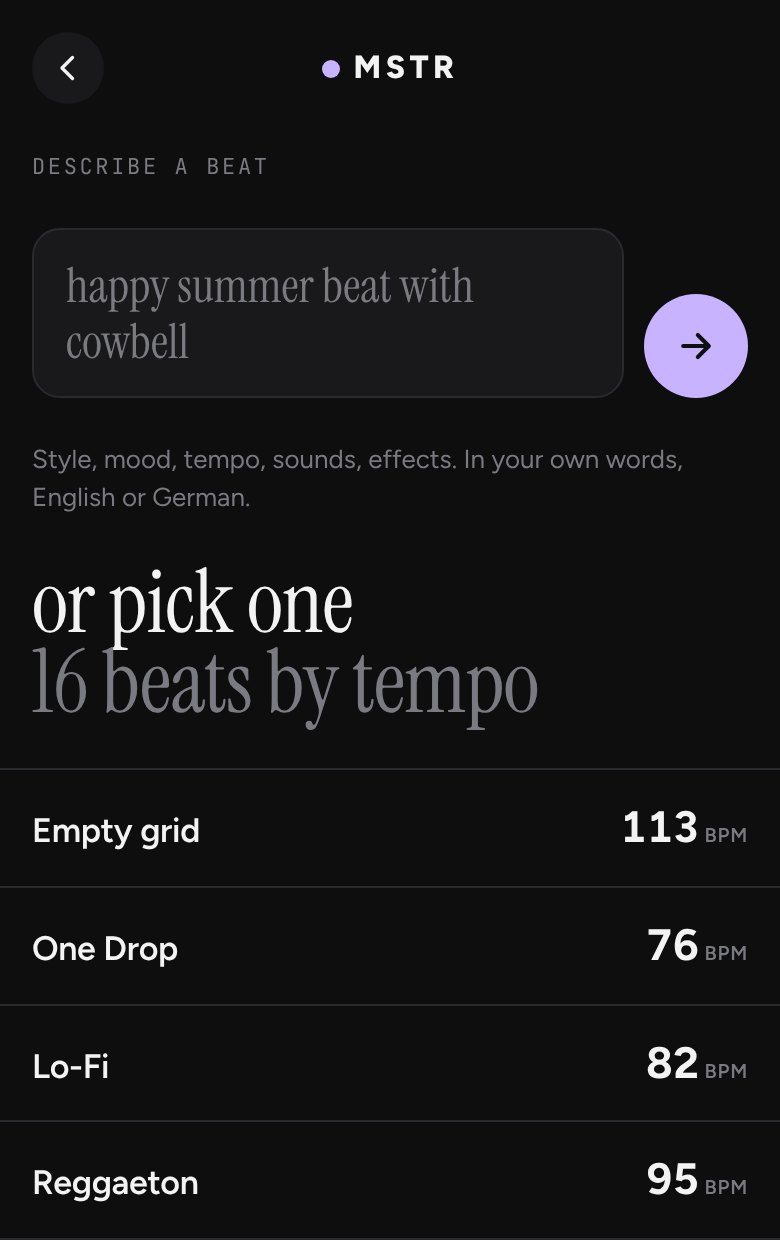
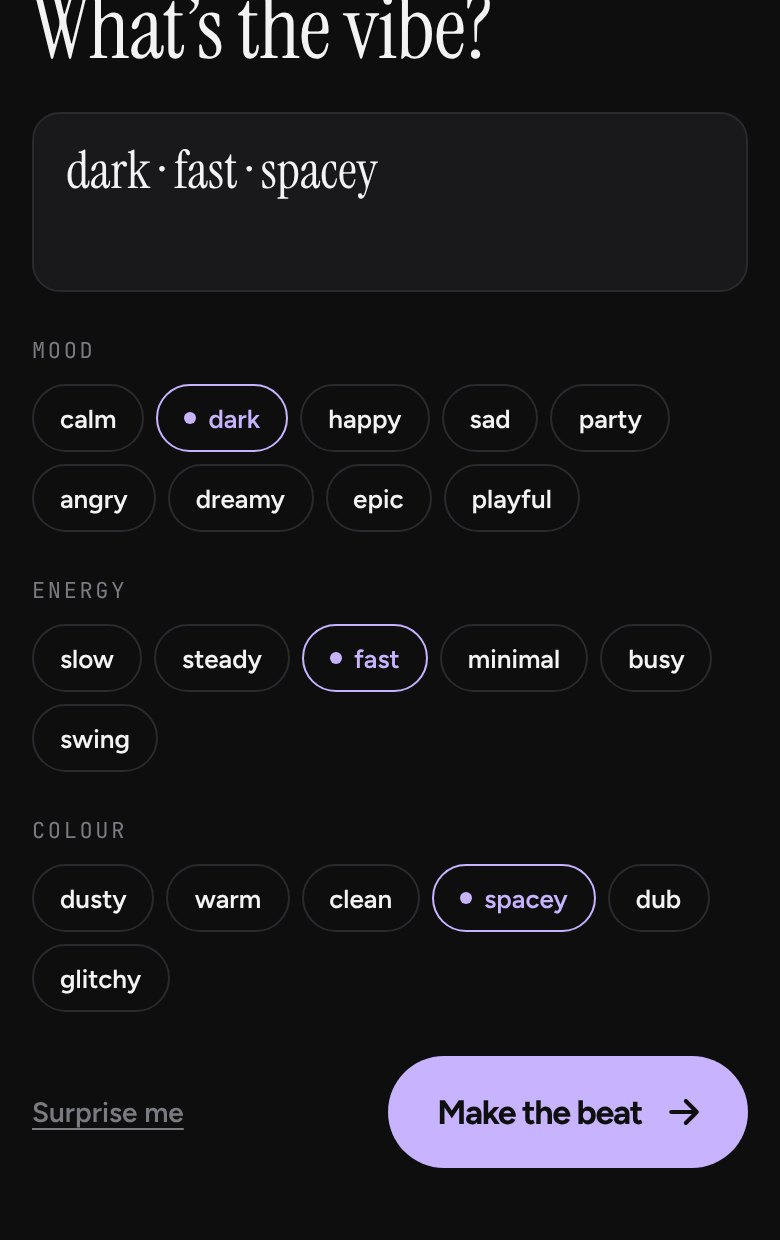
MSTR app: vibe first, Orbit home, no WAV
Sync the app copy with mstr #33: the app opens with the question
"What's the vibe?", the Orbit is the home screen, the machine sits
behind "Open the machine", beat names are generated only, and the WAV
download is gone.

Landing page: new hero text, tour steps reordered to Vibe, Orbit,
Machine, Effects, Mic, and fresh preview images for the vibe page,
the Orbit home and the machine.

Claude-Session: https://claude.ai/code/session_01WCtGHXdqNMZgkMLakytpzG

diff --git a/mstr/app/index.html b/mstr/app/index.html
@@ -39,7 +39,12 @@ button:focus-visible,input:focus-visible{outline:2px solid var(--accent);outline
 .mark i{width:9px;height:9px;border-radius:50%;background:var(--accent)}
 .app.live .mark i{animation:pulse calc(60s / 120) ease-in-out infinite alternate}
 @keyframes pulse{to{transform:scale(1.35)}}
-.topr{display:flex;gap:8px;align-items:center}
+.back{border:0;background:none;padding:0 8px 0 0;display:inline-flex;align-items:center;gap:8px;font:600 14px var(--f-ui);color:var(--ink);cursor:pointer}
+.back i{width:36px;height:36px;border-radius:50%;background:var(--soft);display:grid;place-items:center}
+.back svg{width:18px;height:18px}
+.vibetxt{max-width:50%;overflow:hidden;text-overflow:ellipsis;white-space:nowrap}
+.top .mark{margin-right:auto}.app.molecule .top .mark{margin-right:0}
+.vibetxt[hidden]{display:none}
 .ib{width:36px;height:36px;border-radius:50%;border:0;background:var(--soft);display:grid;place-items:center;cursor:pointer;flex:none;color:var(--ink);padding:0}
 .ib svg{width:18px;height:18px}
 .ib.lg{width:48px;height:48px;font-size:24px;font-weight:500}
@@ -51,17 +56,12 @@ button:focus-visible,input:focus-visible{outline:2px solid var(--accent);outline
 .head{display:flex;flex-direction:column;gap:4px}
 .preset{margin:0;cursor:pointer;display:flex;align-items:center;gap:10px;min-width:0;font-family:var(--f-ed);font-size:clamp(42px,11vw,60px);font-weight:400;letter-spacing:-.01em;line-height:1}
 /* Share: der einzige farbige Knopf im Kopf, beim Spielen läuft darin ein winziger Orbit mit */
-.pill.share{background:var(--accent);color:var(--on-accent);border-color:var(--accent);height:40px;padding:0 16px 0 13px;font-size:14px;gap:7px}
-.pill.share svg{width:18px;height:18px}
-#miniOrb{width:22px;height:22px;display:none}
-.app.live #miniOrb{display:block}
-.app.live .pill.share .shi{display:none}
 .prow{display:flex;align-items:center;gap:14px}
 /* Stift: zeigt, dass der Titel antippbar ist */
 .preset .pen{width:18px;height:18px;flex:none;color:var(--mute)}
 .preset.fixed{cursor:default}.preset.fixed .pen{display:none}
 .preset #preTxt{min-width:0;overflow:hidden;text-overflow:ellipsis;white-space:nowrap}
-/* Textknöpfe: „Change beat“ unter dem Titel, Link und WAV im Orbit */
+/* Textknöpfe: „Change beat“ unter dem Titel, der Link im Orbit */
 .lnk{border:0;background:none;padding:4px 0;font:600 13px var(--f-ui);color:var(--ink);display:inline-flex;align-items:center;gap:5px;cursor:pointer}
 .lnk svg{width:13px;height:13px;flex:none;color:var(--mute)}
 /* Beat beschreiben: das Feld steht oben in der Beat-Liste */
@@ -191,23 +191,18 @@ input[type=range]::-moz-range-thumb{width:20px;height:20px;border-radius:50%;bac
 .opt{height:34px;border-radius:999px;border:1px solid var(--line);background:transparent;padding:0 14px;font-size:13px;font-weight:600;cursor:pointer}
 .opt[aria-pressed="true"]{background:var(--accent);color:var(--on-accent);border-color:var(--accent)}
 /* Willkommen: drei Karten, das Beschreiben-Feld steckt in der dritten */
-.wcards{display:flex;flex-direction:column;gap:12px}
-.wcard{border:1px solid var(--line);border-radius:22px;padding:18px 18px 18px 16px;display:flex;gap:14px;align-items:center;background:transparent;cursor:pointer;text-align:left;width:100%}
-.wcard:active{background:var(--soft)}
-.wic{width:40px;height:40px;border-radius:50%;background:var(--soft);display:grid;place-items:center;flex:none}
-.wic svg{width:20px;height:20px;fill:none;stroke:var(--ink);stroke-width:1.6;stroke-linecap:round;stroke-linejoin:round}
-.wtx{flex:1;display:flex;flex-direction:column;gap:3px;min-width:0}
-.wtx b{font-size:17px;font-weight:600;letter-spacing:-.01em}
-.wtx small{font-size:13px;color:var(--mute);line-height:1.35}
-.wcard .go{width:14px;height:14px;color:var(--mute);flex:none}
-.wcard.say{flex-direction:column;align-items:stretch;gap:12px;padding:18px 16px 16px;cursor:default}
-.wcard.say:active{background:transparent}
-.wh{display:flex;gap:14px;align-items:center}
 .chips{display:flex;gap:6px;flex-wrap:wrap}
-.chip{height:30px;padding:0 12px;border-radius:999px;border:1px solid var(--line);background:transparent;font:600 12px var(--f-ui);color:var(--mute);cursor:pointer}
-.chip:active{color:var(--ink)}
-.wnote{margin-top:auto}
-.wnote b{color:var(--ink);font-weight:600}
+.chip{height:34px;padding:0 13px;border-radius:999px;border:1px solid var(--line);background:transparent;font:600 13px var(--f-ui);color:var(--ink);cursor:pointer;display:inline-flex;align-items:center;gap:6px}
+.chip:active{background:var(--soft)}
+.chip.on{border-color:var(--accent);color:var(--accent)}
+.chip.on::before{content:"";width:6px;height:6px;border-radius:50%;background:var(--accent)}
+.vibef textarea{font-size:26px;caret-color:var(--accent)}
+.vgrp{display:flex;flex-direction:column;gap:8px}
+.vgrp .lbl{font-family:var(--f-mono);font-size:11px;letter-spacing:.12em;text-transform:uppercase;color:var(--mute)}
+.vgo{margin-top:auto;display:flex;align-items:center;justify-content:space-between;gap:12px;padding-bottom:8px}
+.vgo .lnk{color:var(--mute);text-decoration:underline;text-underline-offset:3px;font-size:14px}
+.pill.go.big{height:56px;padding:0 20px 0 24px;background:var(--accent);color:var(--on-accent);border-color:transparent;font-size:17px;font-weight:700;gap:10px}
+.pill.go.big svg{width:22px;height:22px}
 /* Effekte: eine Zeile je Effekt, rechts ein Punkt wie im Raster (grau aus, Flieder an) */
 .fxlist{display:flex;flex-direction:column}
 .fxrow{border-top:1px solid var(--line)}
@@ -293,15 +288,21 @@ input[type=range]::-moz-range-thumb{width:20px;height:20px;border-radius:50%;bac
 .mol:focus-visible{outline:2px solid var(--accent);outline-offset:4px}
 .app.molecule .tracks,.app.molecule .beatrow{display:none}
 /* Im Orbit: Pfeil zurück links, die Marke bleibt in der Mitte (rechts ein gleich breiter Platzhalter) */
-.app.molecule .topr{width:36px}
 .cardfoot{display:flex;gap:8px;align-items:center}
+.takes{display:flex;gap:8px;align-items:center;margin-top:6px}
+.takes .play{width:56px;height:56px;flex:none}
+.takes .pill{flex:1;height:44px;padding:0 10px;font-size:13px}
+.takes .pill svg{width:15px;height:15px;flex:none}
+.machine{margin:0;padding:6px 0 2px;text-align:center;font-size:13px;color:var(--mute);display:flex;justify-content:center;gap:6px;align-items:center;flex-wrap:wrap}
+.machine .lnk{font-size:13px}
+.machine[hidden]{display:none}
 .cardlinks{display:flex;justify-content:center;gap:26px;margin-top:-6px}
 .cardlinks .lnk{font-size:14px}
 .cardlinks .lnk svg{width:15px;height:15px}
 /* Farbwahl im Orbit: fünf Punkte, der gewählte trägt einen Ring; die Orbit-Farbe färbt dort auch den Video-Knopf */
 /* Zurückhaltend wie die App: kleine graue Punkte, nur der gewählte trägt seine Farbe; die Tipp-Fläche bleibt groß */
 .hue{display:flex;justify-content:flex-start;gap:2px;height:0;position:relative;z-index:1}
-.app.molecule .cardfoot{margin-top:6px}
+.app.molecule .cardfoot{margin-top:0}
 .hue button{width:28px;height:24px;border:0;padding:0;background:none;cursor:pointer;display:grid;place-items:center}
 .hue button::after{content:"";width:6px;height:6px;border-radius:50%;background:var(--off);transition:transform .15s,background .15s}
 .hue button[aria-checked="true"]::after{background:var(--c);transform:scale(1.5)}
@@ -315,10 +316,6 @@ input[type=range]::-moz-range-thumb{width:20px;height:20px;border-radius:50%;bac
 /* Orbit füllt genau den sichtbaren Bereich, nichts rutscht unter die Safari-Leiste; Play und Effekte stehen in der Reihe beim Knopf */
 .app.molecule{height:100%;height:100dvh;min-height:0;overflow:hidden;box-sizing:border-box}
 .app.molecule .cardfoot{padding-bottom:0}
-.cardfoot .play{width:48px;height:48px}
-.cardfoot #fxBtn{flex:none;height:48px;min-width:48px;width:48px;padding:0;border-radius:50%;justify-content:center;gap:4px}
-.cardfoot #fxBtn .fxl{display:none}
-.cardfoot #fxBtn.on{width:auto;padding:0 14px 0 12px;border-radius:999px}
 #shCardT{min-height:2.7em;padding-bottom:max(10px,env(safe-area-inset-bottom,0px));margin-top:-10px;line-height:1.35}
 /* Video entsteht: der Knopf füllt sich von links mit dem Fortschritt (--p 0..1) */
 .pill.go.gen,.pill.go.gen:disabled{opacity:1;color:var(--ink);border-color:transparent;background:linear-gradient(90deg,color-mix(in srgb,var(--accent) 60%,var(--bg)) calc(var(--p,0) * 100%),color-mix(in srgb,var(--accent) 18%,var(--bg)) calc(var(--p,0) * 100%));transition:background .2s linear}
@@ -327,9 +324,9 @@ input[type=range]::-moz-range-thumb{width:20px;height:20px;border-radius:50%;bac
 <body>
 <div class="app" id="app">
   <header class="top">
-    <button type="button" class="ib" id="vGrid" hidden aria-label="Back to the grid"><svg viewBox="0 0 24 24" aria-hidden="true"><path d="M15 5l-7 7 7 7" fill="none" stroke="currentColor" stroke-width="2.2" stroke-linecap="round" stroke-linejoin="round"/></svg></button>
+    <button type="button" class="back" id="vOrbit" hidden aria-label="Back to the orbit"><i><svg viewBox="0 0 24 24" aria-hidden="true"><path d="M15 5l-7 7 7 7" fill="none" stroke="currentColor" stroke-width="2.4" stroke-linecap="round" stroke-linejoin="round"/></svg></i><span>Orbit</span></button>
     <span class="mark"><i aria-hidden="true"></i>MSTR</span>
-    <div class="topr"><button type="button" class="pill share" id="vCard" aria-label="Share: your beat as an orbit, video and link"><canvas id="miniOrb" width="44" height="44" aria-hidden="true"></canvas><svg class="shi" viewBox="0 0 24 24" aria-hidden="true"><path d="M12 15V4M8 8l4-4 4 4M5 13v6h14v-6" fill="none" stroke="currentColor" stroke-width="2.2" stroke-linecap="round" stroke-linejoin="round"/></svg><span>Share</span></button></div>
+    <span class="eyebrow vibetxt" id="vibeTxt"></span>
   </header>
   <div class="head">
     <div class="prow"><h1 class="preset" id="preName" title="Name your beat"><span id="preTxt">Amapiano</span><svg class="pen" viewBox="0 0 24 24" aria-hidden="true"><path d="M12 20h9M16.5 3.5a2.1 2.1 0 0 1 3 3L7 19l-4 1 1-4Z" fill="none" stroke="currentColor" stroke-width="2" stroke-linecap="round" stroke-linejoin="round"/></svg></h1></div>
@@ -338,9 +335,11 @@ input[type=range]::-moz-range-thumb{width:20px;height:20px;border-radius:50%;bac
   <main class="tracks" id="tracks" aria-label="Tracks"></main>
   <canvas class="mol" id="mol" hidden aria-label="Your beat as an orbit. Tap the ring to play or stop, tap the title to name it, swipe sideways to change the colour" role="button" tabindex="0"></canvas>
   <div class="hue" id="hue" hidden role="radiogroup" aria-label="Orbit colour"></div>
+  <div class="takes" id="takes" hidden><button type="button" class="pill" id="takeBtn"><svg viewBox="0 0 24 24" aria-hidden="true"><path d="M4 12a8 8 0 0 1 14-5.3M20 12a8 8 0 0 1-14 5.3M18 3v4h-4M6 21v-4h4" fill="none" stroke="currentColor" stroke-width="2" stroke-linecap="round" stroke-linejoin="round"/></svg>Another take</button><button type="button" class="pill" id="vibeBtn"><svg viewBox="0 0 24 24" aria-hidden="true"><path d="M4 7h16M4 12h10M4 17h6" fill="none" stroke="currentColor" stroke-width="2" stroke-linecap="round"/></svg>Change vibe</button></div>
   <div class="cardfoot" id="cardfoot" hidden><button type="button" class="pill wide go" id="shCardBtn">Share video</button></div>
-  <div class="cardlinks" id="cardlinks" hidden><button type="button" class="lnk" id="shSend"><svg viewBox="0 0 24 24" aria-hidden="true"><path d="M10 14a4 4 0 0 0 5.7 0l3-3a4 4 0 0 0-5.7-5.7l-1 1M14 10a4 4 0 0 0-5.7 0l-3 3a4 4 0 0 0 5.7 5.7l1-1" fill="none" stroke="currentColor" stroke-width="2" stroke-linecap="round"/></svg><span>Copy link</span></button><button type="button" class="lnk" id="shWav"><svg viewBox="0 0 24 24" aria-hidden="true"><path d="M12 4v11M8 11l4 4 4-4M5 19h14" fill="none" stroke="currentColor" stroke-width="2" stroke-linecap="round" stroke-linejoin="round"/></svg><span>Download WAV</span></button></div>
+  <div class="cardlinks" id="cardlinks" hidden><button type="button" class="lnk" id="shSend"><svg viewBox="0 0 24 24" aria-hidden="true"><path d="M10 14a4 4 0 0 0 5.7 0l3-3a4 4 0 0 0-5.7-5.7l-1 1M14 10a4 4 0 0 0-5.7 0l-3 3a4 4 0 0 0 5.7 5.7l1-1" fill="none" stroke="currentColor" stroke-width="2" stroke-linecap="round"/></svg><span>Copy link</span></button></div>
   <p class="shnote" id="shCardT" hidden></p>
+  <p class="machine" id="machineRow" hidden>Want to tweak every hit? <button type="button" class="lnk" id="vMachine">Open the machine<svg viewBox="0 0 24 24" aria-hidden="true"><path d="M9 6l6 6-6 6" fill="none" stroke="currentColor" stroke-width="2.4" stroke-linecap="round" stroke-linejoin="round"/></svg></button></p>
   <div class="trk beatrow" aria-hidden="true"><div class="tl"></div><div class="steps"><div class="grp"><span>1</span><span></span><span></span><span></span></div><div class="grp"><span>2</span><span></span><span></span><span></span></div><div class="grp"><span>3</span><span></span><span></span><span></span></div><div class="grp"><span>4</span><span></span><span></span><span></span></div></div></div>
   <footer class="transport">
     <button type="button" class="play" id="play" aria-label="Play (Space)"></button>
@@ -957,7 +956,17 @@ var WORTE=(function(){
     ['epic|episch|stadium|stadion|huge|riesig|big room','rock','pop80'],
     ['heart|heartbeat|herz|herzschlag|pulse|puls|hypnotic|hypnotisch|trance','minimal','techno'],
     ['fast|schnell|frantic|hektisch|energy|energie|running|laufen|workout|sport','dnb','jungle'],
-    ['slow|langsam|lazy|faul|relaxed|entspannt|calm|ruhig','lofi','onedrop']];
+    ['slow|langsam|lazy|faul|relaxed|entspannt|calm|ruhig','lofi','onedrop'],
+    ['dreamy|traeum|ambient|ethereal|floating|schweben','lofi','onedrop'],
+    ['dusty|dust|staub|warm|vinyl|crackle|knister|tape|kassette|cassette|retro|old school|oldschool','lofi','lofi'],
+    ['nervous|nervoes|anxious|restless|unruhig|jittery|zappelig','minimal','electro'],
+    ['romantic|romantisch|love|liebe|kiss|kuss|date|candle|kerze','lofi','onedrop'],
+    ['festival|crowd|menge|stage|buehne|open air|openair|big stage','house','afrobeats'],
+    ['focus|fokus|concentrat|konzentr|deep work|work|arbeit|homework|hausaufgaben','lofi','minimal'],
+    ['tired|muede|exhausted|erschoepft|hopeful|hoffnung|gentle|zart|soft|sanft','lofi','onedrop'],
+    ['drive|driving|road|strasse|autobahn|highway|cruise|cruising|roadtrip|road trip','techno','house'],
+    ['spacey|cosmic|kosmisch|galaxy|galaxie|planet|moon|mond','minimal','techno'],
+    ['glitchy|glitch|broken|kaputt|chopped|stutter','electro','jungle']];
   /* Klänge: Spur, Zeichen, Muster (null: eigene Regel unten) */
   var SOUND=[
     ['clap|klatsch',2,'c'],['rim|rimshot|sidestick',2,'k'],
@@ -1019,7 +1028,7 @@ var WORTE=(function(){
     /* Tempo-Wörter */
     if(!bpm){var f=1;
       if(find(t,'very slow|super slow|sehr langsam|crawling|schleppend')>=0)f=.78;
-      else if(find(t,'slow|slower|langsam|lazy|faul|chill|chilled|relaxed|entspannt|laid ?back|calm|ruhig|sleepy|mellow')>=0)f=.88;
+      else if(find(t,'slow|slower|langsam|lazy|faul|chill|chilled|relaxed|entspannt|laid ?back|calm|ruhig|sleepy|mellow|dreamy|traeum|tired|muede|romantic|romantisch')>=0)f=.88;
       if(find(t,'very fast|super fast|sehr schnell|insane|wahnsinnig')>=0)f=1.22;
       else if(find(t,'fast|faster|schnell|quick|hektisch|frantic|rush|uptempo|up-tempo|energetic|treibend|driving')>=0)f=1.1;
       if(find(t,'half ?time|halftime')>=0)f*=.75;if(find(t,'double ?time')>=0)f*=1.3;
@@ -1264,21 +1273,12 @@ var WORTE=(function(){
   function head(s,b){
     var r;
     if(shown>=0)for(r=0;r<R;r++)cells[r][shown].classList.remove('ph');
-    shown=s;if(s>=0){molHit(s,b);miniDraw(s);}
+    shown=s;if(s>=0)molHit(s,b);
     if(s>=0)for(r=0;r<R;r++){cells[r][s].classList.add('ph');if(pat[r].charAt(s)!=='0'&&audible(r)&&!drop)flash(r);}
     /* Taktzähler und Fortschrittslinie folgen dem laufenden Schritt */
     for(r=0;r<beats.length;r++)beats[r].classList.toggle('cur',s>=0&&r===Math.floor(s/4));
     app.style.setProperty('--prog',s<0?0:(s+1)/N);
   }
-  /* Winziger Orbit im Share-Knopf: läuft beim Spielen mit (je Schritt ein Bild), zeigt, wohin der Beat am Ende geht */
-  var mo=$('miniOrb'),mx=mo.getContext('2d');
-  function miniDraw(s){var W=mo.width,c=W/2,r,k;mx.clearRect(0,0,W,W);
-    mx.strokeStyle='rgba(15,15,16,.28)';mx.lineWidth=1;
-    for(k=0;k<3;k++){mx.beginPath();mx.arc(c,c,7+k*6,0,Math.PI*2);mx.stroke();}
-    mx.fillStyle='#0F0F10';
-    for(r=0;r<7;r++){if(pat[r].charAt(s)==='0'||!audible(r))continue;var a=s/N*Math.PI*2-Math.PI/2,rad=6+r*2.3,d=r===1?3:2.1;
-      mx.beginPath();mx.arc(c+Math.cos(a)*rad,c+Math.sin(a)*rad,d,0,Math.PI*2);mx.fill();}
-    mx.beginPath();mx.arc(c,c,2,0,Math.PI*2);mx.fill();}
   /* Das Spur-Icon blinkt kurz in Flieder, wenn die Spur klingt */
   function flash(r){var ic=rows[r].querySelector('.ic');ic.classList.remove('hit');void ic.offsetWidth;ic.classList.add('hit');clearTimeout(ic._t);ic._t=setTimeout(function(){ic.classList.remove('hit');},140);}
   function loop(){
@@ -1438,26 +1438,36 @@ var WORTE=(function(){
     inp.addEventListener('keydown',function(e){if(e.key==='Enter'&&!e.shiftKey){e.preventDefault();go();}});
     el.querySelectorAll('.chip').forEach(function(c){c.addEventListener('click',function(){go(c.textContent);});});
   }
-  /* ---------- Willkommen: nur beim allerersten Besuch (kein Stand, kein geteilter Link) die Frage, wie es losgehen soll.
-     Drei Karten: leeres Raster, Beat-Liste, Beat beschreiben (Feld und drei Beispiele). Danach nie wieder (S.seen), alles bleibt unter „Change beat“ erreichbar ---------- */
-  var ICO_W={grid:'<circle cx="6" cy="8" r="2.2"/><circle cx="12" cy="8" r="2.2"/><circle cx="18" cy="8" r="2.2"/><circle cx="6" cy="16" r="2.2"/><circle cx="12" cy="16" r="2.2"/><circle cx="18" cy="16" r="2.2"/>',
-    list:'<path d="M4 7h16M4 12h16M4 17h10"/>',say:'<path d="M5 5h14a1.5 1.5 0 0 1 1.5 1.5v9A1.5 1.5 0 0 1 19 17h-8l-4.5 3.5V17H5a1.5 1.5 0 0 1-1.5-1.5v-9A1.5 1.5 0 0 1 5 5Z"/><path d="M8 9.5h8M8 12.8h5"/>'};
-  function wcard(id,ico,t,d){return '<button type="button" class="wcard" id="'+id+'"><span class="wic"><svg viewBox="0 0 24 24" aria-hidden="true">'+ICO_W[ico]+'</svg></span><span class="wtx"><b>'+t+'</b><small>'+d+'</small></span><svg class="go" viewBox="0 0 24 24" aria-hidden="true"><path d="M9 6l6 6-6 6" fill="none" stroke="currentColor" stroke-width="2.4" stroke-linecap="round" stroke-linejoin="round"/></svg></button>';}
-  function welcome(on){
-    if(on===false){S.seen=1;save();if(pageName==='welcome'&&!sheet.hidden)closeSheet();return;}
-    var ex=SAY.slice().sort(function(){return Math.random()-.5;}).slice(0,3);
-    openSheet('<div><span class="eyebrow">Welcome</span><h2 class="ed" id="sheetT">How do you want<br>to start?<br><em>Pick one.</em></h2></div>'+
-      '<div class="wcards">'+wcard('wScratch','grid','Start from scratch','An empty grid. Tap dots, press play.')+wcard('wPick','list','Pick a beat',BEATS.length+' beats from Lo-Fi to Jungle, ready to play and remix.')+
-      '<div class="wcard say"><div class="wh"><span class="wic"><svg viewBox="0 0 24 24" aria-hidden="true">'+ICO_W.say+'</svg></span><span class="wtx"><b>Describe a beat</b><small>In your own words, English or German.</small></span></div>'+SAYF+
-      '<div class="chips">'+ex.map(function(x){return '<button type="button" class="chip">'+x+'</button>';}).join('')+'</div></div></div>'+
-      '<p class="shnote wnote">You can switch any time under <b>Change beat</b>.</p>',function(el){
-      function done(){S.seen=1;save();}
-      el.querySelector('#wScratch').addEventListener('click',function(){done();pat=empty();pre=-1;edited=false;title='';paint();persist();closeSheet();});
-      el.querySelector('#wPick').addEventListener('click',function(){done();presetSheet();});
-      sayInit(el,done);
-    },'welcome','page');
-    S.seen=1;save();
+  /* ---------- Vibe: die Frage „What's the vibe?“ ist der Einstieg (erster Besuch) und „Change vibe“ im Orbit.
+     Drei Reihen Wörter (Stimmung, Energie, Farbe), die der Parser sicher kennt; Tippen baut den Satz im Feld, Tippen ins Feld erlaubt
+     eigene Wörter. „Make the beat“ schickt ab, „Surprise me“ würfelt. Beim ersten Besuch ohne X (S.seen danach), sonst mit X ---------- */
+  var VIBE=[['Mood',['calm','dark','happy','sad','party','angry','dreamy','epic','playful']],['Energy',['slow','steady','fast','minimal','busy','swing']],['Colour',['dusty','warm','clean','spacey','dub','glitchy']]];
+  function vibe(on){
+    if(on===false){S.seen=1;save();if(pageName==='vibe'&&!sheet.hidden)closeSheet();return;}
+    var first=!S.seen;S.seen=1;save();
+    openSheet('<div class="sh-top"><span class="eyebrow">'+(first?'Your beat starts here':'New beat')+'</span>'+(first?'':XB)+'</div><h2 class="ed" id="sheetT">What\u2019s the vibe?</h2>'+
+      '<form class="sayf vibef" autocomplete="off"><textarea id="sayIn" rows="2" maxlength="200" enterkeyhint="send" aria-labelledby="sheetT" placeholder="Tap words, or type"></textarea></form>'+
+      VIBE.map(function(g){return '<div class="vgrp"><span class="lbl">'+g[0]+'</span><div class="chips">'+g[1].map(function(w){return '<button type="button" class="chip" data-w="'+w+'" aria-pressed="false">'+w+'</button>';}).join('')+'</div></div>';}).join('')+
+      '<div class="vgo"><button type="button" class="lnk" id="vSurprise">Surprise me</button><button type="button" class="pill go big" id="sayGo">Make the beat<svg viewBox="0 0 24 24" aria-hidden="true"><path d="M5 12h13M13 6l6 6-6 6" fill="none" stroke="currentColor" stroke-width="2.2" stroke-linecap="round" stroke-linejoin="round"/></svg></button></div>',function(el){
+      var inp=el.querySelector('#sayIn'),chips=[].slice.call(el.querySelectorAll('.chip'));
+      inp.value=typeof S.say==='string'?S.say:'';
+      function has(w){return new RegExp('(^|[^a-z])'+w+'(?=[^a-z]|$)','i').test(inp.value);}
+      function mark(){chips.forEach(function(c){var on=has(c.dataset.w);c.classList.toggle('on',on);c.setAttribute('aria-pressed',on?'true':'false');});}
+      function go(v){v=String(v||inp.value).trim();if(!v)v=surprise();S.say=v;save();closeSheet();sayBeat(v);molSet(true);}
+      function surprise(){var p=function(a){return a[Math.floor(Math.random()*a.length)];},w=[p(VIBE[0][1]),p(VIBE[1][1])];if(Math.random()<.5)w.push(p(VIBE[2][1]));return w.join(' · ');}
+      chips.forEach(function(c){c.addEventListener('click',function(){var w=c.dataset.w;
+        if(has(w))inp.value=inp.value.replace(new RegExp('(^|[^a-z])'+w+'(?=[^a-z]|$)','i'),'$1').replace(/\s*·\s*·\s*/g,' · ').replace(/^\s*·\s*|\s*·\s*$/g,'').trim();
+        else inp.value=inp.value.trim()?inp.value.trim()+' · '+w:w;
+        mark();});});
+      inp.addEventListener('input',mark);mark();
+      el.querySelector('form').addEventListener('submit',function(e){e.preventDefault();go();});
+      inp.addEventListener('keydown',function(e){if(e.key==='Enter'&&!e.shiftKey){e.preventDefault();go();}});
+      el.querySelector('#sayGo').addEventListener('click',function(){go();});
+      el.querySelector('#vSurprise').addEventListener('click',function(){inp.value=surprise();mark();go();});
+    },'vibe','page');
   }
+  /* „Another take“: dieselbe Beschreibung noch einmal (der Parser würfelt leicht); ohne Beschreibung nimmt er den Stil der Vorlage, ohne beides fragt er nach dem Vibe */
+  function anotherTake(){var t=typeof S.say==='string'&&S.say.trim()?S.say:pre>=0?BEATS[pre].n:'';if(!t){vibe();return;}sayBeat(t);}
   function sayBeat(text){
     text=String(text||'').trim();if(!text)return false;
     var o=WORTE(text,{n:BEATS.map(function(b){return b.n;}),bpm:BEATS.map(function(b){return b.bpm;}),sw:BEATS.map(function(b){return b.sw;}),rows:beatRows});
@@ -1639,28 +1649,7 @@ $('preName').addEventListener('click',function(){if(canName())nameSheet();});
     if(navigator.clipboard&&navigator.clipboard.writeText)navigator.clipboard.writeText(url).then(shown,function(){window.prompt('Copy this link',url);});
     else window.prompt('Copy this link',url);
   }
-  /* Beat als WAV-Loop zum Samplen: vier Takte, offline berechnet, genau wie sie klingen (mit Effekten und eigener Aufnahme).
-     Nahtlos: ein Takt Vorlauf wird mitgerechnet und weggeschnitten, so liegen Hall und Echo des letzten Takts schon am Anfang,
-     und Filter und Stottern (Perioden 1, 2 oder 4 Takte) stehen am Ende wieder genau wie am Anfang.
-     Dafür wird ac kurz gegen einen OfflineAudioContext getauscht: Bus und Ausgang entstehen dort neu, alle Schritte werden
-     eingeplant, dann gilt sofort wieder der echte Kontext */
-  var BARS=4;
-  function renderLoop(done){
-    getAC();var OAC=window.OfflineAudioContext||window.webkitOfflineAudioContext;if(!ac||!OAC)return done(null);
-    if(REC.mic&&!REC.mic.buf){decodeRec('mic');var w=0,iv=setInterval(function(){if(!REC.mic||REC.mic.buf||++w>20){clearInterval(iv);renderLoop(done);}},100);return;}
-    var six=st(),barT=N*six,sr=ac.sampleRate,n=Math.round(BARS*barT*sr),a=Math.round(barT*sr),off,keep={ac:ac,B:B,bac:_bac,oc:_oc,og:_og,live:FXLIVE},s,k;
-    try{
-      off=new OAC(2,a+n,sr);
-      ac=off;B=null;_bac=null;_oc=null;bus();FXLIVE=true;fxApply(true);
-      /* Takt -1 ist der Vorlauf; er zählt als letzter Takt der Schleife (wichtig fürs Stottern) */
-      for(k=-1;k<BARS;k++){fxTempo();for(s=0;s<N;s++)playStep(s,(k+1)*barT+s*six+((s%4===2)?six*sw:0),six,(k+BARS)%BARS);}
-    }catch(e){off=null;}
-    ac=keep.ac;B=keep.B;_bac=keep.bac;_oc=keep.oc;_og=keep.og;FXLIVE=keep.live;
-    if(!off)return done(null);
-    var p=off.startRendering(),fin=function(buf){done(wavBlob([buf.getChannelData(0).slice(a,a+n),buf.getChannelData(1).slice(a,a+n)],sr));};
-    if(p&&p.then)p.then(fin,function(){done(null);});else off.oncomplete=function(e){fin(e.renderedBuffer);};
-  }
-  /* Ton für die Karte: der Bogen über 8 Takte plus Schlussschlag (Kick und Crash) und Nachklang, offline gerechnet wie der WAV-Loop,
+  /* Ton für die Karte: der Bogen über 8 Takte plus Schlussschlag (Kick und Crash) und Nachklang, offline gerechnet,
      ohne Vorlauf (der Clip fängt leer an). done(AudioBuffer|null) */
   function renderClip(done){
     getAC();var OAC=window.OfflineAudioContext||window.webkitOfflineAudioContext;if(!ac||!OAC)return done(null);
@@ -1678,21 +1667,13 @@ $('preName').addEventListener('click',function(){if(canName())nameSheet();});
     var p=off.startRendering();
     if(p&&p.then)p.then(done,function(){done(null);});else off.oncomplete=function(e){done(e.renderedBuffer);};
   }
-  function wavBlob(ch,sr){
-    var n=ch[0].length,C=ch.length,ab=new ArrayBuffer(44+n*C*2),v=new DataView(ab),i,c,o=44;
-    function w(at,t){for(var j=0;j<t.length;j++)v.setUint8(at+j,t.charCodeAt(j));}
-    w(0,'RIFF');v.setUint32(4,36+n*C*2,true);w(8,'WAVE');w(12,'fmt ');v.setUint32(16,16,true);v.setUint16(20,1,true);v.setUint16(22,C,true);v.setUint32(24,sr,true);v.setUint32(28,sr*C*2,true);v.setUint16(32,C*2,true);v.setUint16(34,16,true);w(36,'data');v.setUint32(40,n*C*2,true);
-    for(i=0;i<n;i++)for(c=0;c<C;c++){var x=Math.max(-1,Math.min(1,ch[c][i]));v.setInt16(o,x*32767,true);o+=2;}
-    return new Blob([ab],{type:'audio/wav'});
-  }
   function baseName(){
     return (title||(pre>=0?NM[BEATS[pre].n]:'MSTR beat')).normalize('NFD').replace(/[\u0300-\u036f]/g,'').replace(/[^A-Za-z0-9]+/g,'-').replace(/^-+|-+$/g,'')||'MSTR-beat';
   }
-  function fileName(){return baseName()+'-'+bpm+'bpm.wav';}
   function canSendFile(f){try{return !!(navigator.canShare&&navigator.share&&navigator.canShare({files:[f]}));}catch(e){return false;}}
   function saveFile(f){var u=URL.createObjectURL(f),a=document.createElement('a');a.href=u;a.download=f.name;document.body.appendChild(a);a.click();a.remove();setTimeout(function(){URL.revokeObjectURL(u);},4000);}
   /* Teilen: Name und „By“ im Namens-Blatt (Titel antippen; der Würfel schlägt einen Titel aus dem Beat vor),
-     „Share video“ im Orbit macht das Video, darunter stehen Link und WAV-Loop */
+     „Share video“ im Orbit macht das Video, darunter steht der Link */
   var handle=typeof S.by==='string'?S.by.slice(0,24):'';
   /* Karte: die eingeschalteten Effekte wandern mit ins Bild (Stärke 0–1 und Auswahl), GLASS ist die Durchsichtigkeit der Atome */
   var GLASS=0;
@@ -1722,29 +1703,14 @@ $('preName').addEventListener('click',function(){if(canName())nameSheet();});
       by.addEventListener('keydown',function(e){if(e.key==='Enter'){e.preventDefault();closeSheet();}});
     },'name','top');
   }
-  /* Link und WAV-Loop stehen im Orbit als Textzeile unter dem Video-Knopf; die Hinweiszeile darunter antwortet */
+  /* Der Link steht im Orbit als Textzeile unter dem Video-Knopf; die Hinweiszeile darunter antwortet */
   (function(){
-    var sb=$('shSend'),sbT=0,wb=$('shWav'),wl=wb.querySelector('span'),file=null,busy=false;
+    var sb=$('shSend'),sbT=0;
     function sendLabel(){sb.querySelector('span').textContent=nativeShare()?'Send link':'Copy link';}
     sendLabel();window.addEventListener('resize',sendLabel);
     sb.addEventListener('click',function(){shareBeat(function(){
       var own=pat[MIC]&&pat[MIC]!==zero();cardNote('Link copied. Paste it into a chat or mail, it opens your beat on asimplemanslab.com/mstr.'+(own?' Your recording stays on this device.':''));
       sb.querySelector('span').textContent='\u2713 Link copied';clearTimeout(sbT);sbT=setTimeout(function(){sendLabel();},2500);});});
-    /* Download: am Handy übers Teilen-Menü (dort „In Dateien sichern“), sonst direkt. Lässt der Browser das Teilen
-       nach dem Rechnen nicht mehr zu, braucht es einen zweiten Tipp */
-    function give(f){
-      if(navigator.share&&matchMedia('(pointer: coarse)').matches&&canSendFile(f)){
-        navigator.share({files:[f],title:f.name}).catch(function(e){if(e&&e.name==='NotAllowedError'){wl.textContent='Save '+f.name;}});return;}
-      saveFile(f);cardNote('Saved '+f.name+': '+BARS+' bars that loop seamlessly, for sampling'+(pat[MIC]&&pat[MIC]!==zero()?', with your recording':'')+'.');
-    }
-    wb.addEventListener('click',function(){
-      if(busy)return;
-      if(file&&file.name===fileName())return give(file);
-      busy=true;cardNote('Rendering '+BARS+' bars …');
-      renderLoop(function(blob){busy=false;
-        if(!blob){cardNote('That did not work in this browser.');return;}
-        file=new File([blob],fileName(),{type:'audio/wav'});give(file);});
-    });
   })();
   /* „Share“ in der Karten-Ansicht: Ton offline rechnen, Video in Echtzeit aufnehmen (die Karten-Ansicht zeigt derweil die Aufnahme),
      dann teilen (Handy) oder sichern (Rechner). Ohne Video gibt es ein Bild. Dieselbe Datei wird beim zweiten Tipp sofort gegeben */
@@ -1805,11 +1771,11 @@ $('preName').addEventListener('click',function(){if(canName())nameSheet();});
 
   build();themeUI();fxUI();playB.innerHTML=I_PLAY;
   if(shared){var before=shared;showToast(title?'“'+title+'” loaded':'Shared beat loaded','Undo',function(){restore(before);});}
-  else if(!P&&!S.seen&&!location.hash)welcome();
+  else if(!P&&!S.seen&&!location.hash)vibe();
   /* ---------- Molekül-Ansicht: das Raster gegen das Ring-Molekül der Karte tauschen, live mit dem Beat.
      Schläge kommen aus head() (Schritt, Takt), Mute, Solo und Drop entscheiden mit; steht der Beat, steht das Bild.
      Ein Tipp aufs Molekül bringt das Raster zurück, bearbeitet wird nur dort ---------- */
-  var molC=$('mol'),molX=molC.getContext('2d'),vGrid=$('vGrid'),vCard=$('vCard'),foot=$('cardfoot'),molS=null,molKey='',molRaf=0,molOn=false,molTick=0,molLast=0;
+  var molC=$('mol'),molX=molC.getContext('2d'),vOrbit=$('vOrbit'),vMachine=$('vMachine'),machineRow=$('machineRow'),takes=$('takes'),vibeTxt=$('vibeTxt'),foot=$('cardfoot'),molS=null,molKey='',molRaf=0,molOn=false,molTick=0,molLast=0;
   /* Der Orbit ist immer schwarz, auch wenn das Grid hell ist: solange er an ist, steht die Seite auf dunkel */
   function molDark(){return true;}
   function forceDark(){document.documentElement.setAttribute('data-theme','dark');var m=document.querySelector('meta[name="theme-color"]');if(m)m.setAttribute('content','#0E0E0F');}
@@ -1835,10 +1801,13 @@ $('preName').addEventListener('click',function(){if(canName())nameSheet();});
     if(stu)setTimeout(function(){if(molOn&&playing)molS.fire({s:q,b:b,h:h,st:1},performance.now());},st()*500);}
   var transport=document.querySelector('.transport');
   var links=$('cardlinks');
-  function molSet(on){molOn=!!on;if(!molOn)cardStop();app.classList.toggle('molecule',molOn);molC.hidden=!molOn;foot.hidden=!molOn;hueRow.hidden=!molOn;links.hidden=!molOn;vGrid.hidden=!molOn;vCard.hidden=molOn;
-    if(molOn){foot.insertBefore(playB,cb);foot.insertBefore(fxB,cb);cardLabel();forceDark();}else{transport.insertBefore(playB,transport.firstChild);transport.insertBefore(fxB,dropB);ct.hidden=true;themeUI();}
-    S.view=molOn?'mol':'';save();if(molOn){molModel();molSize();molGo();}}
-  vGrid.addEventListener('click',function(){molSet(false);});vCard.addEventListener('click',function(){molSet(true);});
+  /* Der Orbit ist die Startseite, das Raster ist „die Maschine“ dahinter (S.view 'grid'); Play wandert mit in die Reihe bei Another take */
+  function molSet(on){molOn=!!on;if(!molOn)cardStop();app.classList.toggle('molecule',molOn);molC.hidden=!molOn;foot.hidden=!molOn;hueRow.hidden=!molOn;links.hidden=!molOn;takes.hidden=!molOn;machineRow.hidden=!molOn;vOrbit.hidden=molOn;vibeTxt.hidden=!molOn;
+    if(molOn){takes.insertBefore(playB,takes.firstChild);cardLabel();vibeUI();forceDark();}else{transport.insertBefore(playB,transport.firstChild);ct.hidden=true;themeUI();}
+    S.view=molOn?'':'grid';save();if(molOn){molModel();molSize();molGo();}}
+  function vibeUI(){var t=typeof S.say==='string'?S.say.trim():'';vibeTxt.textContent=t.length>26?t.slice(0,25).trim()+'…':t;}
+  vMachine.addEventListener('click',function(){molSet(false);});vOrbit.addEventListener('click',function(){molSet(true);});
+  $('takeBtn').addEventListener('click',anotherTake);$('vibeBtn').addEventListener('click',function(){vibe();});
   /* Unterer Streifen (Titel und Zeile) öffnet den Namen, der Rest spielt oder stoppt */
   function molTitleHit(e){var r=molC.getBoundingClientRect(),sc=Math.min(r.width/540,r.height/760);return e.clientY-r.top>r.height-130*sc;}
   /* Wischen über den Orbit (links/rechts) schaltet die Farbe weiter, ein Tipp bleibt ein Tipp: erst ab 40 px quer, und mehr quer als längs */
@@ -1850,9 +1819,9 @@ $('preName').addEventListener('click',function(){if(canName())nameSheet();});
   molC.addEventListener('click',function(e){if(swiped){swiped=false;return;}if(busyC)return;if(molTitleHit(e)){if(canName())nameSheet();}else setPlay(!playing);});
   molC.addEventListener('keydown',function(e){if(e.key==='Enter'||e.key===' '){e.preventDefault();if(!busyC&&canName())nameSheet();}});
   document.addEventListener('visibilitychange',function(){if(!document.hidden)molGo();});window.addEventListener('pageshow',molGo);
-  if(S.view==='mol')molSet(true);
+  molSet(S.view!=='grid');
 
-  window.MSTR={welcome:welcome,view:molSet,say:sayBeat,setPlay:setPlay,renderLoop:renderLoop,renderClip:renderClip,card:CARD,code:shareCode,url:shareUrl,hue:setHue,state:function(){return {pat:pat.slice(),bpm:bpm,sw:sw,pre:pre,playing:playing,col:col,fx:JSON.parse(JSON.stringify(FX)),fxa:JSON.parse(JSON.stringify(FXA)),fxo:JSON.parse(JSON.stringify(FXO))};}};
+  window.MSTR={welcome:vibe,vibe:vibe,take:anotherTake,view:molSet,say:sayBeat,setPlay:setPlay,renderClip:renderClip,card:CARD,code:shareCode,url:shareUrl,hue:setHue,state:function(){return {pat:pat.slice(),bpm:bpm,sw:sw,pre:pre,playing:playing,col:col,fx:JSON.parse(JSON.stringify(FX)),fxa:JSON.parse(JSON.stringify(FXA)),fxo:JSON.parse(JSON.stringify(FXO))};}};
 })();
 
 })();

diff --git a/mstr/index.html b/mstr/index.html
@@ -101,19 +101,19 @@ details a,.ask a{color:var(--accent-text);font-weight:700}
 <header class="hero">
 <h1 class="logo"><i aria-hidden="true"></i>MSTR</h1>
 <p class="say">pronounced “muster”</p>
-<p>Build beats in your browser. Eight tracks, sixteen steps, six effects, plus your own sound from the mic.</p>
+<p>Beats from a mood. Say what you feel, and your beat spins in the Orbit. The machine behind it has eight tracks, sixteen steps, six effects, plus your own sound from the mic.</p>
 </header>
 <section class="tour" aria-label="How it works">
-  <div class="phone"><img id="ph" src="vorschau-2.jpg" alt="The beat list: a field to describe a beat in words on top, then 16 templates sorted by tempo" width="390" height="620"></div>
+  <div class="phone"><img id="ph" src="vorschau-2.jpg" alt="The question What’s the vibe? with the sentence dark · fast · spacey and three rows of words: mood, energy, colour" width="390" height="620"></div>
   <div>
    <ol class="steps" role="tablist" aria-label="Steps">
-    <li><button type="button" role="tab" aria-selected="true" data-img="vorschau-2.jpg" data-alt="The beat list: a field to describe a beat in words on top, then 16 templates sorted by tempo"><b>1</b><strong>Start</strong><span>Describe a beat in words, pick one of 16 templates, or begin with an empty grid.</span></button></li>
-    <li><button type="button" role="tab" aria-selected="false" data-img="vorschau-1.jpg" data-alt="The grid playing Sunday Groove, a lilac Share button with a tiny spinning orbit at the top, Play, Effects, Drop and Tempo at the bottom"><b>2</b><strong>Build</strong><span>Tap steps, long-press for a different sound, set tempo and swing.</span></button></li>
-    <li><button type="button" role="tab" aria-selected="false" data-img="vorschau-4.jpg" data-alt="The Room and Echo effects switched on, with sliders"><b>3</b><strong>Effects</strong><span>Switch on six effects and hit the drop.</span></button></li>
-    <li><button type="button" role="tab" aria-selected="false" data-img="vorschau-3.jpg" data-alt="The Mic track with the record button"><b>4</b><strong>Mic</strong><span>Record your own sound on the Mic track.</span></button></li>
-    <li><button type="button" role="tab" aria-selected="false" data-img="vorschau-5.jpg" data-alt="The Orbit: the molecule spins to the beat Sunday Groove by @mark, with five colour dots above the title, Play, Effects and Save video below, then Copy link and Download WAV"><b>5</b><strong>Share</strong><span>Tap Share: your beat spins as a molecule in one of five colours. Save it as a video with the link to your beat, copy the link, or download a WAV loop.</span></button></li>
+    <li><button type="button" role="tab" aria-selected="true" data-img="vorschau-2.jpg" data-alt="The question What’s the vibe? with the sentence dark · fast · spacey and three rows of words: mood, energy, colour"><b>1</b><strong>Vibe</strong><span>Say what you feel: tap a few words or type your own, then Make the beat.</span></button></li>
+    <li><button type="button" role="tab" aria-selected="false" data-img="vorschau-5.jpg" data-alt="The Orbit: the molecule spins to the beat, below it Play, Another take, Change vibe and Share video"><b>2</b><strong>Orbit</strong><span>Your beat plays as a spinning molecule. Take another take, change the vibe, or share it as a video with a link.</span></button></li>
+    <li><button type="button" role="tab" aria-selected="false" data-img="vorschau-1.jpg" data-alt="The machine: eight tracks with sixteen steps each, Play, Effects, Drop and tempo at the bottom"><b>3</b><strong>Machine</strong><span>Want every hit in your hands? Open the machine: tap steps, long-press for a different sound, set tempo and swing.</span></button></li>
+    <li><button type="button" role="tab" aria-selected="false" data-img="vorschau-4.jpg" data-alt="The Room and Echo effects switched on, with sliders"><b>4</b><strong>Effects</strong><span>Switch on six effects and hit the drop.</span></button></li>
+    <li><button type="button" role="tab" aria-selected="false" data-img="vorschau-3.jpg" data-alt="The Mic track with the record button"><b>5</b><strong>Mic</strong><span>Record your own sound on the Mic track.</span></button></li>
    </ol>
-   <p class="cap" id="cap">Describe a beat in words, pick one of 16 templates, or begin with an empty grid.</p>
+   <p class="cap" id="cap">Say what you feel: tap a few words or type your own, then Make the beat.</p>
   </div>
 </section>
 <h2>Good to know</h2>
